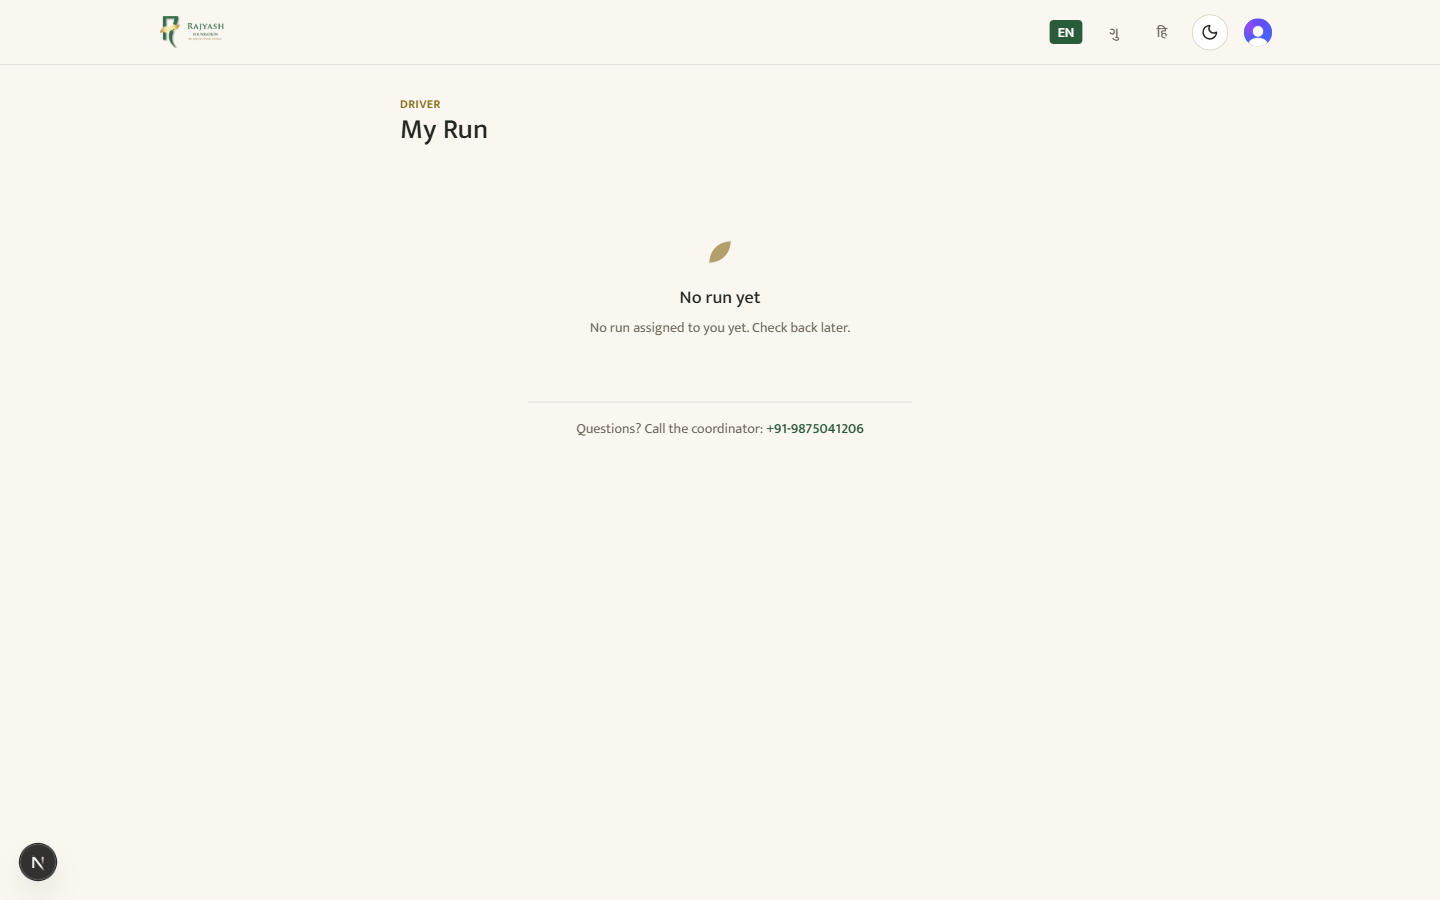
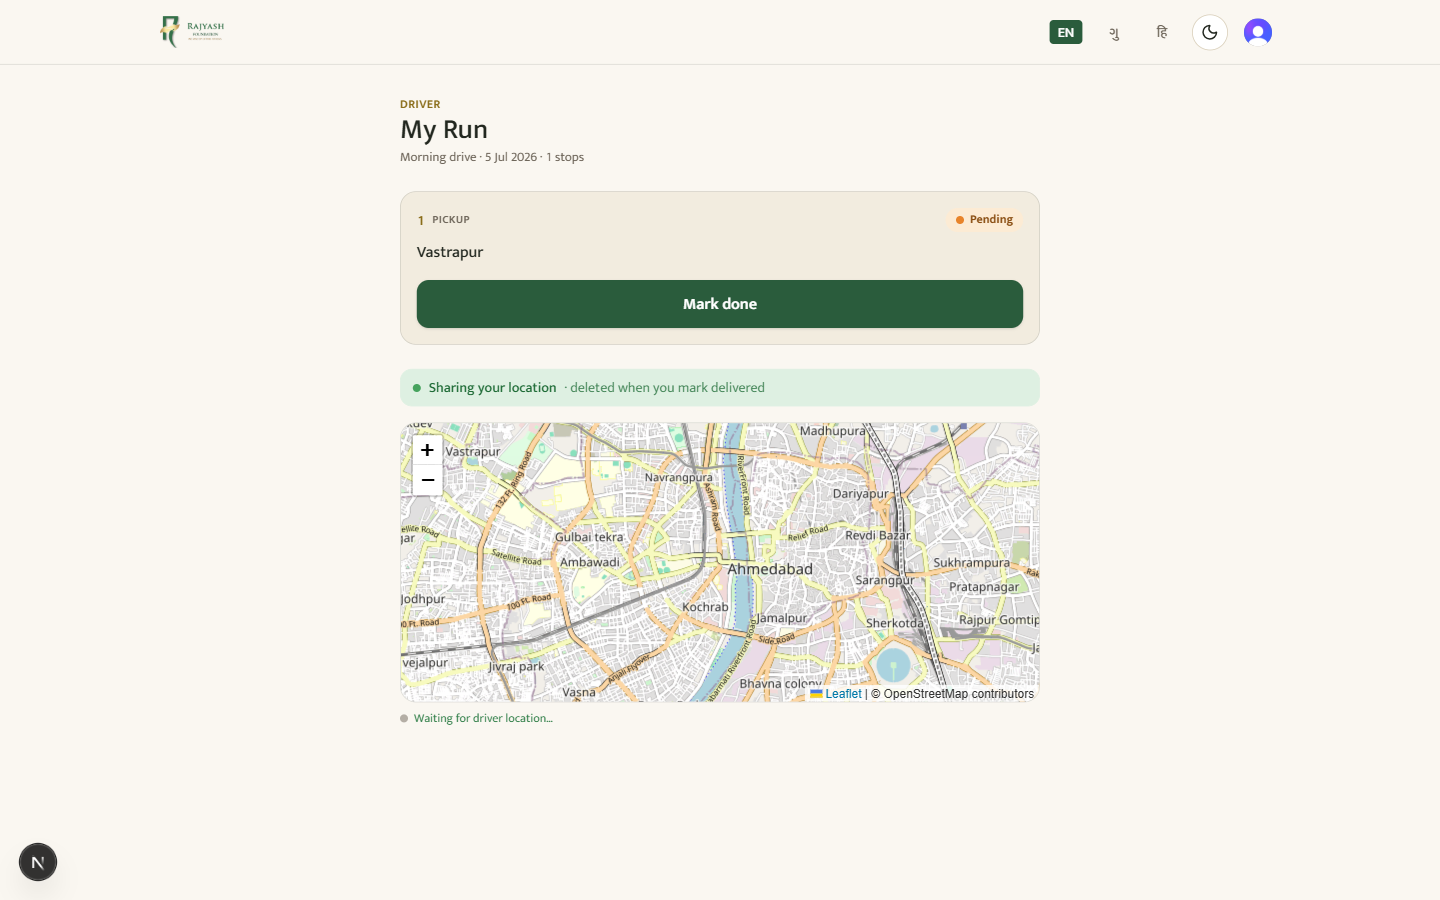
docs(guide): populated driver 'My Run' capture (stop, mark-done, live map)
Replaced the driver empty-state screenshot with a real active run (assigned via
the admin New Run UI to the test driver): shows a pickup stop, the Mark done
action, live location sharing, and the map. Empty state now noted in text.

diff --git a/docs/guide/_handbook-template.html b/docs/guide/_handbook-template.html
@@ -320,14 +320,15 @@
         <p>You collect the food and run the delivery route. The app gives you today's run and lets you tick off each stop.</p>
 
         <h3>My Run</h3>
-        <figure><img src="{{IMG:25-driver-run}}" alt="Driver's My Run screen" /><figcaption>Your assigned route for the shift. When none is assigned yet, you see this with the coordinator's number.</figcaption></figure>
-        <p>When a run is assigned, this becomes your working checklist:</p>
+        <figure><img src="{{IMG:25-driver-run}}" alt="Driver's My Run screen with a pickup stop and live map" /><figcaption>Your assigned route — stops in order, "Mark done", and live location sharing on the map.</figcaption></figure>
+        <p>My Run is your working checklist for the shift:</p>
         <ul>
-          <li><strong>Your stops in order</strong> — each pickup to collect and each destination to drop at.</li>
-          <li><strong>Mark each stop done</strong> as you go; the run auto-completes when every stop is finished.</li>
-          <li><strong>Live location</strong> — while your run is active, the app shares your location so coordinators and donors see progress on the map. Keep your screen on during the run for continuous tracking.</li>
+          <li><strong>Each stop in order</strong> — a <em>Pickup</em> to collect or a <em>Drop</em> to deliver, with its area and a <strong>Pending</strong> marker until done.</li>
+          <li><strong>Mark done</strong> — tap it as you finish each stop; the run auto-completes when every stop is done.</li>
+          <li><strong>Sharing your location</strong> — while the run is active, your live location shows on the map for coordinators and donors, and is deleted the moment you mark delivered. Keep your screen on during the run.</li>
           <li>Volunteers riding with you can also confirm drops.</li>
         </ul>
+        <p><em>Before a run is assigned, this screen reads "No run assigned to you yet — check back later," with the coordinator's number.</em></p>
         <p>The structure of a run — its ordered pickup and drop stops — is the same one staff build; see <a href="#s6">the run detail screen</a> in the admin guide.</p>
       </section>
 

diff --git a/docs/guide/HANDBOOK.md b/docs/guide/HANDBOOK.md
@@ -213,18 +213,19 @@ tick off each stop.*
 
 ![My Run](assets/25-driver-run.png)
 
-**My Run** shows the route a coordinator has assigned you. When you have no run yet, you'll see
-*"No run assigned to you yet — check back later,"* with the coordinator's phone number if you
-have questions.
+**My Run** shows the route a coordinator has assigned you — its name and date, and your **stops
+in order**. It's your working checklist for the shift:
 
-**When a run is assigned,** this screen becomes your working checklist for the shift:
-
-- **Your stops in order** — each pickup to collect and each destination to drop at.
-- **Mark each stop done** as you complete it. The run auto-completes when every stop is finished.
-- **Live location** — while your run is active, the app shares your location so coordinators and
-  donors can see progress on the map. *(On the web app, keep your screen on during the run for
-  continuous tracking.)*
+- **Each stop in order** — a *Pickup* to collect food or a *Drop* to deliver it, with its area
+  and a **Pending** marker until you complete it.
+- **Mark done** — tap it as you finish each stop; the run auto-completes when every stop is done.
+- **Sharing your location** — while your run is active, the app shares your live location on the
+  map so coordinators and donors can see progress. It's deleted the moment you mark delivered.
+  *(On the web app, keep your screen on during the run for continuous tracking.)*
 - Volunteers riding with you can also confirm drops on an active run.
+
+*(Before a run is assigned, this screen simply reads "No run assigned to you yet — check back
+later," with the coordinator's phone number.)*
 
 The structure of a run (its ordered pickup and drop stops) is the same one staff build on the
 admin side — see the **run detail** screen in the admin guide for the full picture.